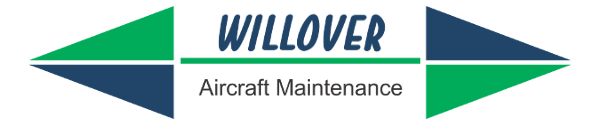
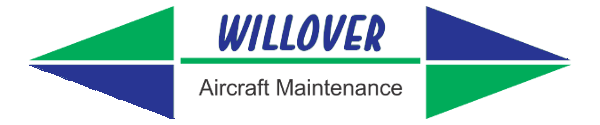
fresh colors

Changed region(s): [[0.36, 0.12, 0.66, 0.408], [0.03, 0.504, 0.3, 0.96], [0.69, 0.048, 0.96, 0.48]]

diff --git a/_includes/actionbuttons.html b/_includes/actionbuttons.html
@@ -9,12 +9,12 @@
        <!-- END MY SCRIPTS -->
 <!-- FIXED ACTION BUTTON -->
 <div class="fixed-action-btn">
-  <a href="#" class="btn-floating green darken-2 btn-large"><i class="material-icons">menu</i></a>
+  <a href="#" class="btn-floating green lighten-1 btn-large"><i class="material-icons">menu</i></a>
   <ul>
-    <li><a href="../" class="btn-floating green darken-2 btn-large"><i class="large material-icons">home</i></a></li>
-    <li><a href="../about" class="btn-floating green darken-2 btn-large"><i class="large material-icons">help</i></a></li>
+    <li><a href="../" class="btn-floating green lighten-1  btn-large"><i class="large material-icons">home</i></a></li>
+    <li><a href="../about" class="btn-floating green lighten-1  btn-large"><i class="large material-icons">help</i></a></li>
 
-    <li><a href="../contact" class="btn-floating green darken-2 btn-large"><i class="large material-icons">call</i></a></li>
+    <li><a href="../contact" class="btn-floating green lighten-1  btn-large"><i class="large material-icons">call</i></a></li>
 
   </ul>
 </div>

diff --git a/css/main.css b/css/main.css
@@ -3,7 +3,7 @@
 
 
 body {
-  border-top: 15px solid #002f6c;
+  border-top: 15px solid #283593;
 
 }
 .landingpage{
@@ -22,27 +22,37 @@ body {
   margin: 0 10px 0 10px;
   height: 150%
 }
-
+h1{
+  font-size: 3em;
+}
 h3 {
   font-size: 1.5em;
 }
 
 .fixed-action-btn {
   margin-bottom:10px;
-  
+
 
 }
 
-
+.map {
+  width:120%;
+  margin-left:-10px;
+  display: flex;
+  flex-direction: column;
+}
 
 hr {
   border-top: 0.5px solid #ccc;
   width:100%;
   /*border-bottom: 0.5px solid #333333;*/
 }
+btn-floating {
+  background-color: #66bb6a;
+}
 
 footer.page-footer {
-  background-color: #002f6c !important;
+  background-color: #283593 !important;
   min-height: 0;
   vertical-align: baseline;
   z-index: 2;
@@ -53,7 +63,7 @@ footer.page-footer {
 }
 
 footer.page-footer .footer-copyright {
-  background-color: #4f83cc !important;
+  background-color: #0091ea !important;
   padding-left:20px;
 }
 /* Customize the label (the container) */

diff --git a/ameta_current.md b/ameta_current.md
@@ -6,32 +6,54 @@ permalink: /ameta-current/
 
 <p>
 <hr>
-<img> <strong>Course: Example 1</strong><i class="material-icons" style="float:right;">local_printshop </i>
+<strong>Airframe General (A)</strong>
+<i class="material-icons" style="float:right;">local_printshop </i>
 <hr>
 <br>
-Results:
+<strong>Results:</strong>
 <br>
 <ul>
-<li>score1 100/100</li>
-<li>score2 98/100</li>
-<li>score3 97/100</li>
-<li>score4 100/100</li>
+<li>Mathematics</li>
+<li>Physics</li>
+<li>Electrical Fundamentals</li>
+<li>Materials and Hardware</li>
+<li>Maintenance Practices</li>
+<li>Basic Aerodynamics</li>
+<li>Aircraft Aerodynamics</li>
+<li>Aircraft Structures and Systems</li>
+<li>Fuselage (ATA 52/53/56)</li>
+<li>Wings (ATA 57)</li>
+<li>Flight Control Surfaces (ATA 55/57)</li>
+<li>Nachelles (ATA 54)</li>
+<li>Air Conditioning and Cabin Pressurisation (ATA 21)</li>
+<li>Instrument Systems (ATA 31)</li>
+<li>Electrical Power (ATA 24)</li>
+<li>Fire Protection (ATA 26)</li>
+<li>Flight Controls (ATA 27)</li>
+<li>Fuel Systems (ATA 28)</li>
+<li>Hydraulic Power (ATA 29)</li>
+<li>Ice and Rain Protection (ATA 30)</li>
+<li>Landing Gear (ATA 32)</li>
+<li>Lights (ATA 33)</li>
+<li>Oxygen (ATA 35)</li>
+<li>Pneumatic/Vacuum (ATA 36) </li>
 <br>
-<li style="color:#d22727;">Overall Score: 98.75%</li>
+<li style="color:#d22727;"><strong>Overall Score: 98.75%</strong></li>
 </ul>
 <hr>
-<img> <strong>Course: Example 2</strong><i class="material-icons" style="float:right;">local_printshop </i>
+<strong>Gas Turbine General (c)</strong><i class="material-icons" style="float:right;">local_printshop </i>
 <hr>
 <br>
 Results:
 <br>
+
 <ul>
 <li>score1 100/100</li>
 <li>score2 98/100</li>
 <li>score3 97/100</li>
 <li>score4 100/100</li>
 <br>
-<li style="color:#d22727;">Overall Score: 98.75%</li>
+<li style="color:#d22727;"><strong>Overall Score: 98.75%</strong></li>
 </ul>
 <br>
 <br>

diff --git a/contact.md b/contact.md
@@ -17,4 +17,6 @@ Lanseria
 <br>
 South Africa
 </p>
-<p><iframe src="https://www.google.com/maps/embed?pb=!1m14!1m8!1m3!1d7820.958275788647!2d27.9153756!3d-25.9358021!3m2!1i1024!2i768!4f13.1!3m3!1m2!1s0x1e9578772746a34b%3A0xc613c81910589b67!2sInterjet+AMETA+%2F+Maintenance+%2F+Avionics!5e1!3m2!1sen!2sza!4v1496774995924" width="100%" height="400" style="border: 0;" frameborder="0" allowfullscreen="allowfullscreen"></iframe></p>
+<div class="map">
+<p><iframe src="https://www.google.com/maps/embed?pb=!1m18!1m12!1m3!1d3587.991660481709!2d27.927438757919308!3d-25.93549860595565!2m3!1f0!2f0!3f0!3m2!1i1024!2i768!4f13.1!3m3!1m2!1s0x1e9578772746a34b%3A0xc613c81910589b67!2sInterjet+AMETA+%2F+Maintenance+%2F+Avionics!5e0!3m2!1sen!2sza!4v1512575948155" style="border:0" allowfullscreen="" width="100%" height="450" frameborder="0"></iframe></p>
+</div>

diff --git a/ameta_all.md b/ameta_all.md
@@ -1,19 +1,19 @@
 ---
 layout: page
-title: All Available Course
+title: All Available Courses
 permalink: /ameta-all/
 ---
 
 <p>
 <ul>
 <hr>
-<li><strong>Course 1</strong></li>
+<li><a href="../ameta-book"><strong>Course 1</strong></a></li>
 <hr>
-<li><strong>Course 2</strong></li>
+<li><a href="../ameta-book"><strong>Course 2</strong></a></li>
 <hr>
-<li><strong>Course 3</strong></li>
+<li><a href="../ameta-book"><strong>Course 3</strong></a></li>
 <hr>
-<li><strong>Course 4</strong></li>
+<li><a href="../ameta-book"><strong>Course 4</strong></a></li>
 <hr>
 </ul>
 </p>

diff --git a/ameta_dash.md b/ameta_dash.md
@@ -1,6 +1,6 @@
 ---
 layout: page
-title: AMETA Dashboard
+title: AMETA console
 permalink: /ameta-dashboard/
 ---
 
@@ -9,11 +9,23 @@ permalink: /ameta-dashboard/
 <hr>
 <br>
 <a href="../ameta-current">My Current Training</a>
+<br>
+<br>
 <hr>
+
+<br>
 <a href="../ameta-pending">My Pending Training</a>
+<br>
+<br>
 <hr>
+<br>
 <a href="../ameta-history">My History</a>
+<br>
+<br>
 <hr>
+<br>
 <a href="../ameta-all">All Available Courses</a>
+<br>
+<br>
 <hr>
 </p>

diff --git a/ameta_history.md b/ameta_history.md
@@ -7,13 +7,13 @@ permalink: /ameta-history/
 <p>
 <ul>
 <hr>
-<li><strong>Latest Course</strong></li>
+<li><strong>Civil Aviation Regulations</strong></li>
 <hr>
-<li><strong>Previous Course</strong></li>
+<li><strong>Lycoming Engine 320 & 360</strong></li>
 <hr>
-<li><strong>Older Course</strong></li>
+<li><strong>Continental 520 & 550 (C)</strong></li>
 <hr>
-<li><strong>Older Course</strong></li>
+<li><strong>Rotorcraft General</strong></li>
 <hr>
 </ul>
 </p>

diff --git a/avionics.md b/avionics.md
@@ -15,7 +15,7 @@ permalink: /avionics/
   <li>FDS</li>
   <li>L-3 Communication</li>
   </ul>
-
+<hr>
   <h3>Service support includes:</h3>
 
 <ul>
@@ -30,5 +30,9 @@ permalink: /avionics/
   <li>Repairs and RTS certification on the FA2100 DFRD/CVFDR.</li>
   <li>FA2100 CVR transcription and recertification.</li>
 </ul>
+<br>
+<br>
+<br>
+<br>
 
 </p>

diff --git a/maintenance.md b/maintenance.md
@@ -7,6 +7,7 @@ permalink: /maintenance/
 <p>
   <h3>We are a fully licensed aircraft maintenance company that aims to make the maintaining your aircraft a smooth process.
 </h3>
+<hr>
 <h3>We service and maintain:</h3>
 
 <ul>
